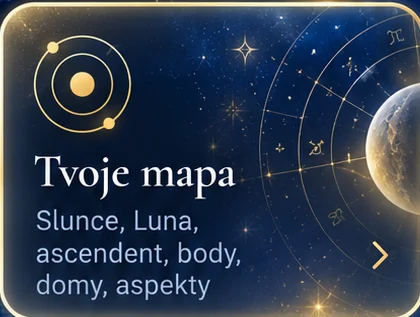
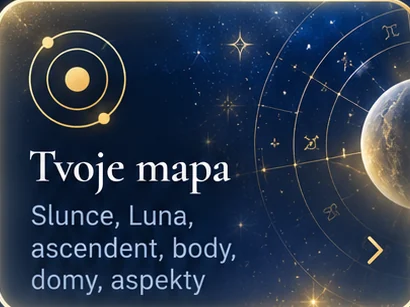
Karty O tobe: zapecene ramecky orezany, jednotny zlaty ramecek s vnitrnim odleskem a zari kresleny CSS u vsech osmi + SW v299

diff --git a/sw.js b/sw.js
@@ -1,6 +1,6 @@
 /* Kairos – service worker. Při každé změně index.html zvedni číslo verze. */
-const CACHE = 'kairos-v298';
-const SHELL = ['./', './index.html', './styles.css?v=298', './kairos-core.js?v=298', './data.js?v=298', './app.js?v=298', './astronomy.browser.min.js', './manifest.webmanifest', './logo.png', './logo-emblem.webp?v=1', './cyklus-dne.webp?v=1', './tile-mapa.webp?v=5', './tile-prochazis.webp?v=5', './tile-vztahy.webp?v=5', './tile-horoskop.webp?v=5', './tile-cisla.webp?v=5', './tile-cakra.webp?v=5', './tile-navraty.webp?v=5', './tile-hvezdy.webp?v=5', './logo-stars.webp?v=1', './moon-tex.png?v=1', './icon-192.png', './icon-512.png', './icon-maskable-512.png', './sky-day.webp?v=7', './sky-night.webp?v=4', './sky-night-hd2.webp?v=1', './sky-day-hd2.webp?v=1'];
+const CACHE = 'kairos-v299';
+const SHELL = ['./', './index.html', './styles.css?v=299', './kairos-core.js?v=299', './data.js?v=299', './app.js?v=299', './astronomy.browser.min.js', './manifest.webmanifest', './logo.png', './logo-emblem.webp?v=1', './cyklus-dne.webp?v=1', './tile-mapa.webp?v=6', './tile-prochazis.webp?v=6', './tile-vztahy.webp?v=6', './tile-horoskop.webp?v=6', './tile-cisla.webp?v=6', './tile-cakra.webp?v=6', './tile-navraty.webp?v=6', './tile-hvezdy.webp?v=6', './logo-stars.webp?v=1', './moon-tex.png?v=1', './icon-192.png', './icon-512.png', './icon-maskable-512.png', './sky-day.webp?v=7', './sky-night.webp?v=4', './sky-night-hd2.webp?v=1', './sky-day-hd2.webp?v=1'];
 
 self.addEventListener('install', (e) => {
   e.waitUntil(caches.open(CACHE).then((c) => c.addAll(SHELL.map((u) => new Request(u, { cache: 'reload' })))).then(() => self.skipWaiting()));

diff --git a/index.html b/index.html
@@ -25,7 +25,7 @@ var mt=document.querySelector('meta[name=theme-color]');if(mt)mt.setAttribute('c
 <link rel="preconnect" href="https://fonts.googleapis.com">
 <link rel="preconnect" href="https://fonts.gstatic.com" crossorigin>
 <link rel="stylesheet" href="https://fonts.googleapis.com/css2?family=Cormorant+Garamond:ital,wght@0,500;0,600;1,500&family=IBM+Plex+Sans:wght@400;500;600&family=IBM+Plex+Mono:wght@400;500&display=swap">
-<link rel="stylesheet" href="styles.css?v=298">
+<link rel="stylesheet" href="styles.css?v=299">
 </head>
 <body>
 <div id="splash" aria-hidden="true"><img class="sp-em" src="logo-emblem.webp?v=1" alt=""><span class="bname"><i class="l1"><b>NEBESKÝ</b></i><i class="l2"><b>KOMPAS</b></i></span><img class="sp-st" src="logo-stars.webp?v=1" alt=""><span class="claim sp-cl"><i>tvůj</i><i class="mid">hvězdný</i><i class="big">kalendář</i></span></div>
@@ -55,8 +55,8 @@ var mt=document.querySelector('meta[name=theme-color]');if(mt)mt.setAttribute('c
 <button type="button" class="backbtn" id="backBtn" aria-label="Zpět, odkud jsi přišel">‹ Zpět</button>
 <div class="upbar" id="upbar" role="status"><span><b>Nová verze je připravená</b>Obnov a máš ji hned.</span><button type="button" id="upGo">Obnovit</button><button type="button" class="upx" id="upX" aria-label="Zavřít">×</button></div>
 <script src="astronomy.browser.min.js"></script>
-<script src="kairos-core.js?v=298"></script>
-<script src="data.js?v=298"></script>
-<script src="app.js?v=298"></script>
+<script src="kairos-core.js?v=299"></script>
+<script src="data.js?v=299"></script>
+<script src="app.js?v=299"></script>
 </body>
 </html>

diff --git a/app.js b/app.js
@@ -1,6 +1,6 @@
 (function () {
   'use strict';
-  const VERSION = 'v298';
+  const VERSION = 'v299';
   const A = Astronomy;
   const K = createKairosEngine(A);
   const TX = createKairosTexts(K);
@@ -2998,7 +2998,7 @@ ${parts}
     ].filter(t => t[0] !== 'cisla' || settings.numerology !== false);
     if (view === 'menu') {
       const arcS = arcSentence();
-      v.innerHTML = natalHead + (arcS ? `<p class="nnow"><span class="tvlab">u tebe teď</span>${esc(arcS)}</p>` : '') + `<div class="ntiles">${TILES.map(([id, ic, t, sub, kind]) => `<button type="button" class="ntile img ${kind || ''}" data-act="natalView" data-v="${id}" aria-label="${t} — ${sub}"><img src="tile-${id}.webp?v=5" alt="" width="420" height="317"></button>`).join('')}</div>`+ `<p class="note astrolink"><button type="button" class="linkbtn" data-act="natalView" data-v="efemeridy">Podrobnosti — pro astrologa: Efemeridy ›</button></p>`;
+      v.innerHTML = natalHead + (arcS ? `<p class="nnow"><span class="tvlab">u tebe teď</span>${esc(arcS)}</p>` : '') + `<div class="ntiles">${TILES.map(([id, ic, t, sub, kind]) => `<button type="button" class="ntile img ${kind || ''}" data-act="natalView" data-v="${id}" aria-label="${t} — ${sub}"><img src="tile-${id}.webp?v=6" alt="" width="420" height="317"></button>`).join('')}</div>`+ `<p class="note astrolink"><button type="button" class="linkbtn" data-act="natalView" data-v="efemeridy">Podrobnosti — pro astrologa: Efemeridy ›</button></p>`;
       return;
     }
     const tile = TILES.find(t => t[0] === view) || (view === 'efemeridy' ? ['efemeridy', '≡', 'Efemeridy', ''] : TILES[0]);

diff --git a/styles.css b/styles.css
@@ -957,9 +957,10 @@ table.pts td.p{font-family:var(--mono);white-space:nowrap}
 .linkbtn{background:none;border:0;padding:6px 8px;color:var(--gold);font:inherit;font-size:var(--fs-s);letter-spacing:.03em;cursor:pointer;opacity:.85}
 
 /* karty O tobě jako hotové obrazy */
-.ntile.img{padding:0;min-height:0;display:block;background:none;border:0;box-shadow:0 10px 26px rgba(0,0,0,.35);border-radius:20px;overflow:hidden}
-.ntile.img img{display:block;width:100%;height:auto;border-radius:20px}
-.ntile.img,.ntile.img.main{box-shadow:0 0 26px rgba(243,211,132,.3),0 10px 26px rgba(0,0,0,.35)}
+.ntile.img{padding:0;min-height:0;display:block;background:#0B1A33;border:1.5px solid #F3D384;border-radius:20px;overflow:hidden;position:relative}
+.ntile.img img{display:block;width:100%;height:auto;border-radius:18px}
+.ntile.img::after{content:'';position:absolute;inset:0;border-radius:18px;box-shadow:inset 0 0 0 1px rgba(255,244,214,.35),inset 0 0 14px rgba(243,211,132,.25);pointer-events:none}
+.ntile.img,.ntile.img.main{box-shadow:0 0 22px rgba(243,211,132,.38),0 10px 26px rgba(0,0,0,.35)}
 
 /* horní tlačítka: průvodce, sdílení, profil */
 .topbtns{position:absolute;right:0;top:10px;display:flex;align-items:center;gap:8px;z-index:3}
